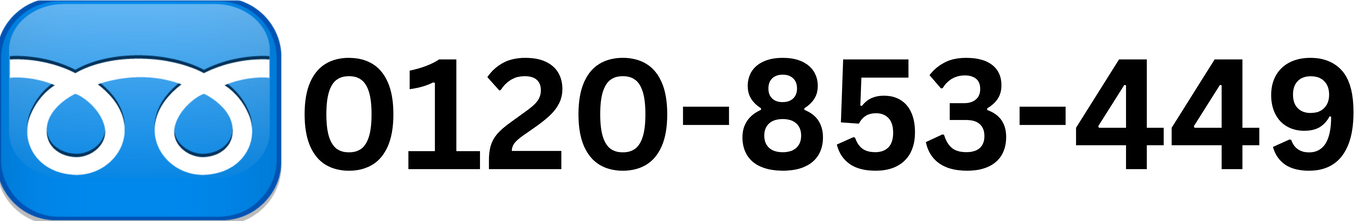
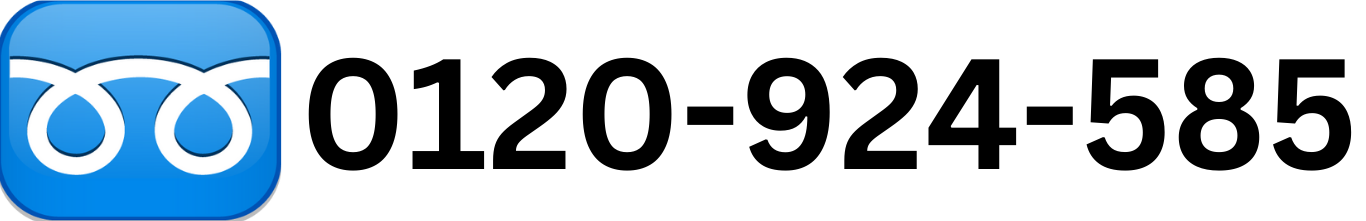
電話番号変更

diff --git a/index.html b/index.html
@@ -47,7 +47,7 @@
   "image": "https://www.kaitorismart.jp/img/snsshared.png",
   "@id": "https://www.kaitorismart.jp/",
   "url": "https://www.kaitorismart.jp/",
-  "telephone": "0120-853-449",
+  "telephone": "0120-924-585",
   "address": {
     "@type": "PostalAddress",
     "streetAddress": "埼玉県上尾市本町2-12-24 菊池ビル 1F",
@@ -87,9 +87,9 @@
 				<img src="img/smartLogo.png" alt="買取スマートロゴ" />
 			</div>
 			<div class="header-contact">
-				<span>受付時間 9:00〜18:00（年中無休）</span>
+				<span>受付時間: 9:00〜18:00</span>
 				<a href="https://lin.ee/xbqQiAp" class="line-button">LINEで無料査定</a>
-				<a href="tel:0120-853-449" class="call-button">0120-853-449</a>
+				<a href="tel:0120-924-585" class="call-button">0120-924-585</a>
 			</div>
 			<div class="hamburger-menu">
 				<span></span>
@@ -134,7 +134,7 @@
 			<img src="img/pageHiro.png" alt="説明テキスト" class="page-image">
 			<div class="button-container">
 				<a href="https://lin.ee/xbqQiAp" class="line-button">LINEでサクッと！</a>
-				<a href="tel:0120-853-449" class="call-button">お電話はこちら！</a>
+				<a href="tel:0120-924-585" class="call-button">お電話はこちら！</a>
 			</div>
 		</div>
 	</section>
@@ -144,7 +144,7 @@
 			<img src="img/pageHiro_phone.png" alt="説明テキスト" class="page-image">
 			<div class="button-container">
 				<a href="https://lin.ee/xbqQiAp" class="line-button">LINEでサクッと！</a>
-				<a href="tel:0120-853-449" class="call-button">お電話はこちら！</a>
+				<a href="tel:0120-924-585" class="call-button">お電話はこちら！</a>
 			</div>
 		</div>
 	</section>
@@ -303,7 +303,7 @@
 						<div class="dial-box">
 							<img src="img/dial.png" alt="フリーダイヤル">
 						</div>
-						<p class="note">[総合受付]24時間・年中無休（年末年始除く）</p>
+						<p class="note">※お電話(9:00-18:00)のみのご予約になります</p>
 					</div>
 					<a href="https://lin.ee/xbqQiAp" class="email-button">LINEでご相談</a>
 				</div>
@@ -628,7 +628,7 @@
 				</tr>
 				<tr>
 					<th>会社問い合わせ先</th>
-					<td>0120-853-449</td>
+					<td>0120-924-585</td>
 				</tr>
 				<tr>
 					<th>資本金</th>
